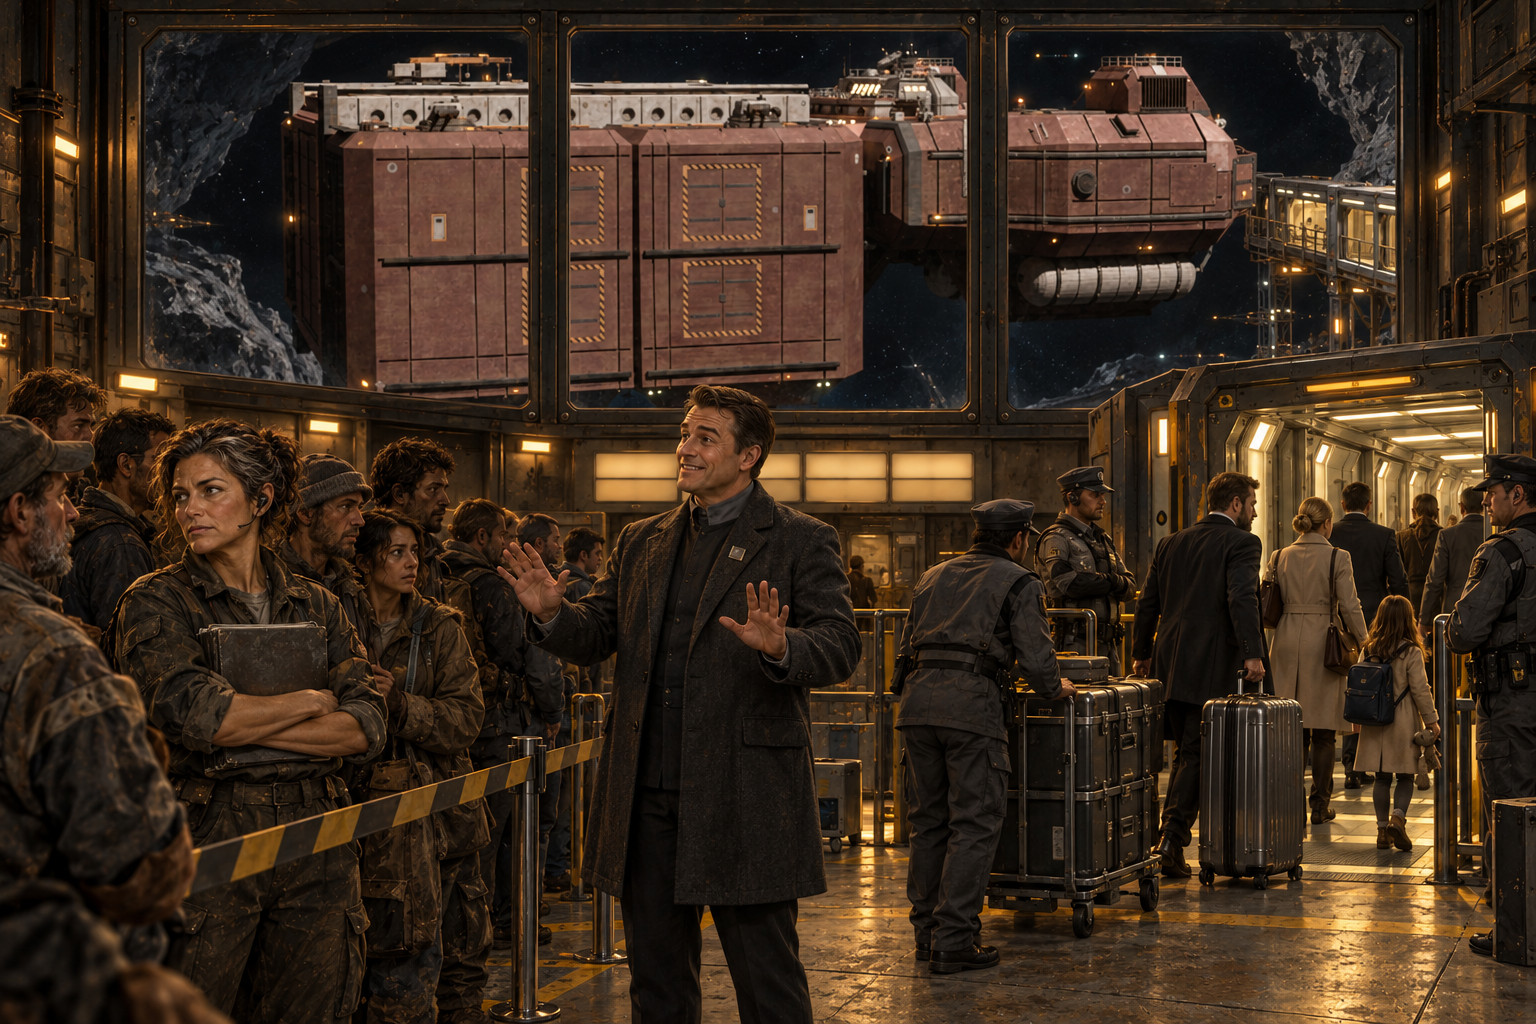
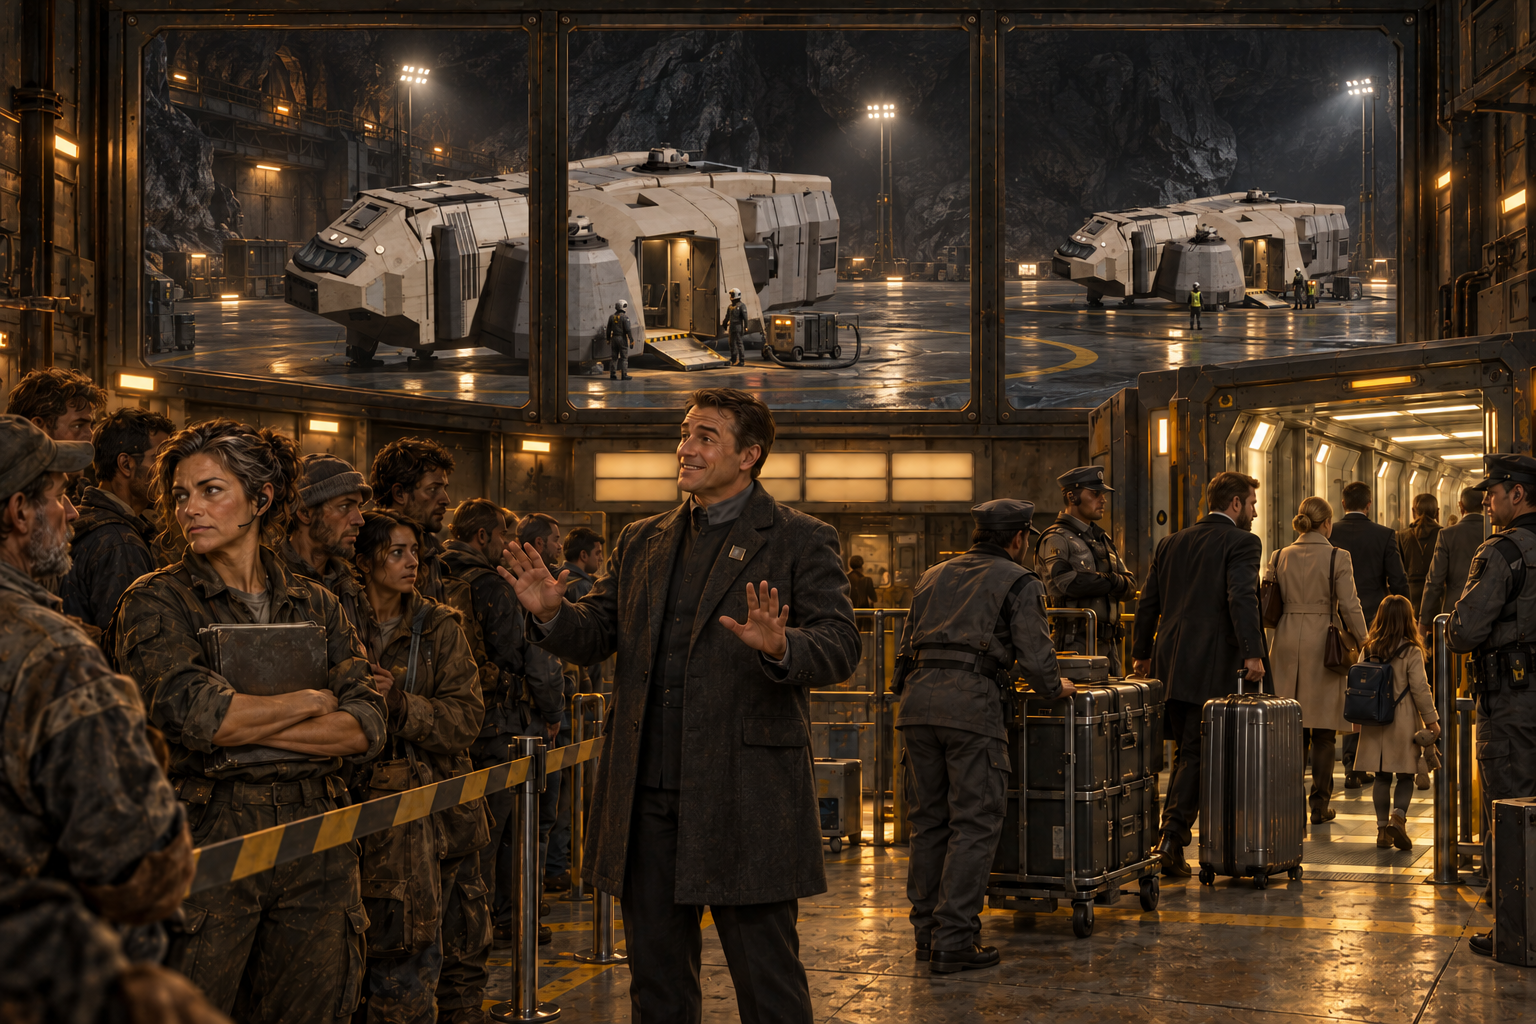
Prologue P2: two Hermes boats instead of the freighter
The owner found an extra engine pod on the repainted Colossus and asked for a
few small boats instead, which makes 'not enough room' plain (2026-10-19).
colossus_guides.py now renders the Hermes too (gear down, port door open);
two copies are pasted into P2's window and the page is edited around them,
everything in the gallery kept.

diff --git a/art-source/company-prologue/story-stills/guides/colossus_guides.py b/art-source/company-prologue/story-stills/guides/colossus_guides.py
@@ -1,7 +1,7 @@
-"""The company carrier for the prologue pages: the cinematic Colossus, alone on a transparent film.
+"""Ships for the prologue pages: the cinematic Colossus or Hermes, alone on a transparent film.
 
     blender --background --factory-startup --python-exit-code 1 --python colossus_guides.py --
-            --blend <colossus.blend> --out DIR [--views p2,p3] [--samples 32] [--percent 50]
+            --blend <colossus.blend|hermes.blend> --out DIR [--views p2,p3 | p2-hermes] [--samples 32] [--percent 50]
 
 P2 and P3 show the Claim's company freighter. ImageGen warps a ship it draws from a reference
 still (owner, 2026-10-19), so each page gets the real model rendered at that page's angle, to be
@@ -16,11 +16,15 @@ import bpy
 from mathutils import Vector
 
 # view: (azimuth from +Y toward +X, elevation, distance, lens mm), hull units; target the hull centre.
+# Each view names its ship: (collection, target in hull units).
+SHIPS = {"colossus": ("COLOSSUS", (-17.0, 1.5, -6.0)), "hermes": ("HERMES", (0.0, 0.0, 0.0))}
 VIEWS = {
-    "p3": (-50.0, 22.0, 520.0, 50.0),   # leaving: seen from behind and above, drives toward camera
-    "p2": (18.0, 4.0, 470.0, 50.0),     # docked: broadside, seen level from the gallery
+    "p3": ("colossus", -50.0, 22.0, 520.0, 50.0),   # leaving: seen from behind and above, drives toward camera
+    "p2": ("colossus", 18.0, 4.0, 470.0, 50.0),     # docked: broadside, seen level from the gallery
+    # P2 after the owner swapped the freighter for Hermes boats (2026-10-19: "not enough room"):
+    # one boat on its pad, port bow quarter, a little above, gear down and port door open.
+    "p2-hermes": ("hermes", 35.0, 12.0, 190.0, 50.0),
 }
-TARGET = (-17.0, 1.5, -6.0)
 
 
 def args():
@@ -34,9 +38,18 @@ def args():
 def main(o):
     bpy.ops.wm.read_factory_settings(use_empty=True)
     scene = bpy.context.scene
+    ship = VIEWS[o["views"].split(",")[0]][0]
+    collection, target = SHIPS[ship]
     with bpy.data.libraries.load(o["blend"], link=False) as (src, dst):
-        dst.collections = ["COLOSSUS"]
+        dst.collections = [collection]
     scene.collection.children.link(dst.collections[0])
+    control = bpy.data.objects.get("Hermes control")
+    if control is not None:                      # gear down, port boarding door open
+        for k, v in (("gear_up", 0.0), ("door_port", 1.0)):
+            if k in control.keys():
+                control[k] = v
+        control.update_tag()
+        scene.frame_set(scene.frame_current)
     world = bpy.data.worlds.new("dark")
     world.use_nodes = True
     world.node_tree.nodes["Background"].inputs["Color"].default_value = (.02, .02, .025, 1)
@@ -61,9 +74,9 @@ def main(o):
     scene.view_settings.view_transform = "AgX"
     out = Path(o["out"])
     out.mkdir(parents=True, exist_ok=True)
-    t = Vector(TARGET)
+    t = Vector(target)
     for v in o["views"].split(","):
-        az, el, dist, lens = VIEWS[v]
+        _, az, el, dist, lens = VIEWS[v]
         a, e = math.radians(az), math.radians(el)
         cam.location = t + dist * Vector((math.sin(a) * math.cos(e), math.cos(a) * math.cos(e), math.sin(e)))
         cam.rotation_euler = (t - cam.location).to_track_quat("-Z", "Y").to_euler()
